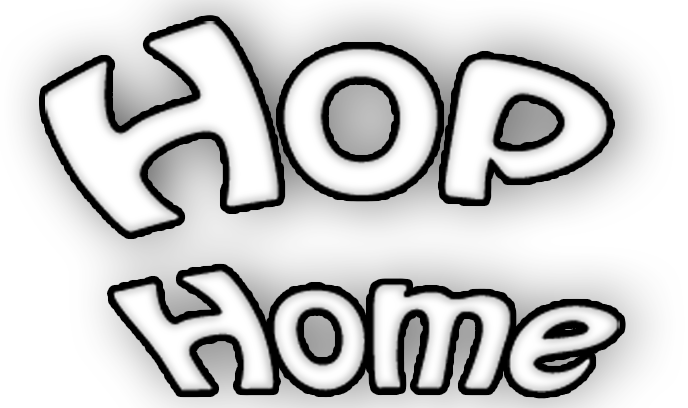
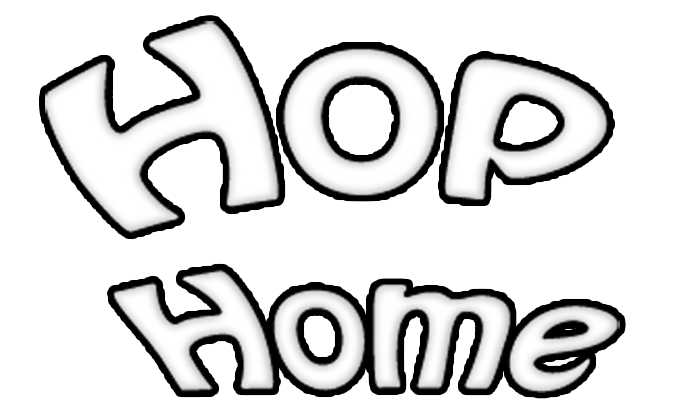
More Menu stuff

diff --git a/HopHome/src/com/dsaw/hophome/GameScreen.java b/HopHome/src/com/dsaw/hophome/GameScreen.java
@@ -84,14 +84,18 @@ public class GameScreen implements Screen {
 	Image carrotImg;
 	Rectangle carrotRect;
 	
+	public static final int VIRTUAL_WIDTH = 480;
+	public static final int VIRTUAL_HEIGHT = 720;
+	public static final float ASPECT_RATIO = (float)VIRTUAL_WIDTH/VIRTUAL_HEIGHT;
+	
 	public GameScreen(final Game game, int numdays) {
 		this.game = game;
 
 		state = GAME_READY;
 		this.days = numdays;
 		//this.hungerLevel = hunger;
-		guiCam = new OrthographicCamera(320, 480);
-		guiCam.position.set(320 / 2, 480 / 2, 0);
+		guiCam = new OrthographicCamera(VIRTUAL_WIDTH, VIRTUAL_HEIGHT);
+		guiCam.position.set(VIRTUAL_WIDTH / 2, VIRTUAL_HEIGHT / 2, 0);
 		touchPoint = new Vector3();
 		batcher = new SpriteBatch();
 		shapeRenderer = new ShapeRenderer();
@@ -209,8 +213,10 @@ public class GameScreen implements Screen {
 	    
 	  //Create a label with the style made above.
 	    hungerLabel = new Label("Hunger: 100%", style);
+        hungerLabel.setFontScale(0.2f);
+        hungerLabel.setSize(hungerLabel.getWidth()*0.2f, hungerLabel.getHeight()*0.2f);
+        hungerLabel.setScale(0.2f);
 	    hungerLabel.setPosition(Gdx.graphics.getWidth() - hungerLabel.getWidth() - pauseButton.getWidth(), (float)(Gdx.graphics.getHeight() - hungerLabel.getHeight()));
-
 	    stage.addActor(hungerLabel);
 	    
 	    carrot = new Texture(Gdx.files.internal("data/carrot.png"));
@@ -390,6 +396,7 @@ public class GameScreen implements Screen {
 		}
 
 		//Act & Draw Stage First
+		stage.setCamera(guiCam);
 		stage.act();
 		stage.draw();
 		

diff --git a/HopHome/src/com/dsaw/hophome/StartMenu.java b/HopHome/src/com/dsaw/hophome/StartMenu.java
@@ -148,7 +148,7 @@ public class StartMenu implements Screen{
 	    });
         */	    
 	    background = new Texture(Gdx.files.internal("Background1.png"));
-	    //background.setFilter(TextureFilter.MipMap, TextureFilter.MipMap);
+	    background.setFilter(TextureFilter.Linear, TextureFilter.Linear);
 	    title = new Texture(Gdx.files.internal("Hop_Home_title.png"));
 	    title.setFilter(TextureFilter.Linear, TextureFilter.Linear);
 	}

diff --git a/HopHome/src/com/dsaw/hophome/GameOverScreen.java b/HopHome/src/com/dsaw/hophome/GameOverScreen.java
@@ -106,6 +106,7 @@ public class GameOverScreen implements Screen{
 	    buttonStyle.over = buttonSkin.getDrawable("buttonPressed");
 	    buttonStyle.down = buttonSkin.getDrawable("buttonPressed");
 	    buttonStyle.font = font;
+	    buttonStyle.font.scale(0.1f);
 	    
 
 	    startButton = new TextButton("Retry", buttonStyle);
